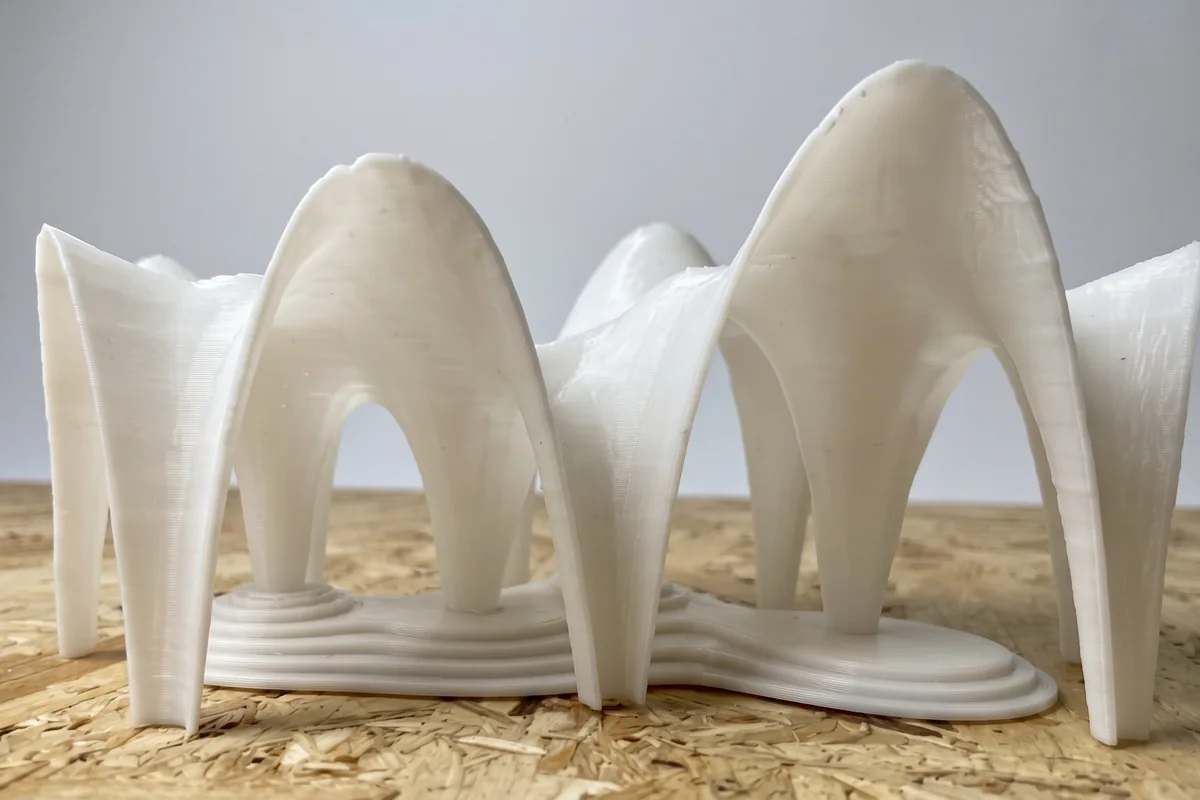
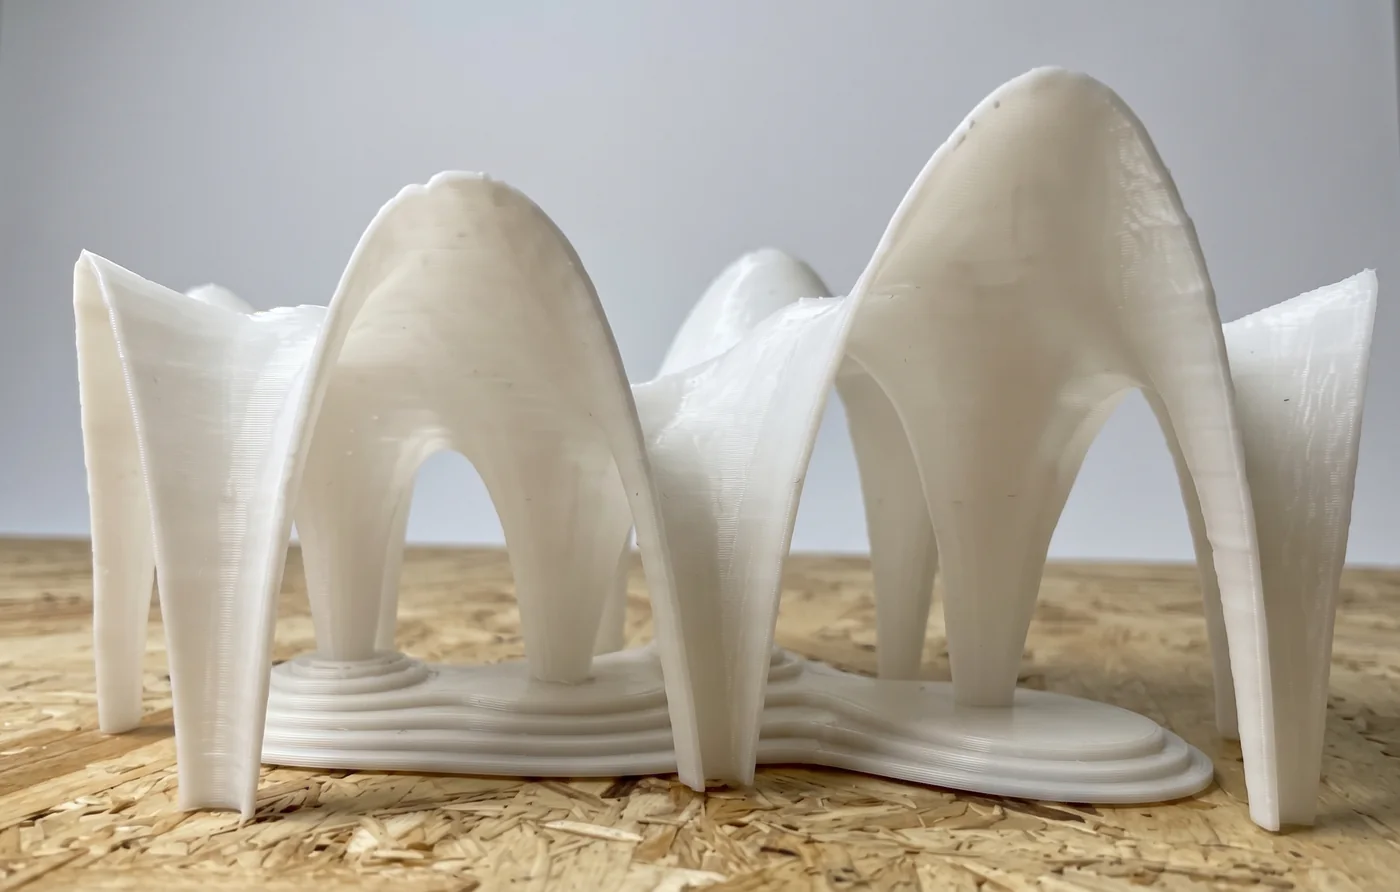
Update site 2026-10-17

diff --git a/index.html b/index.html
@@ -2,7 +2,7 @@
 <html lang="en">
 <head>
 <meta charset="utf-8">
-<meta http-equiv="Content-Security-Policy" content="default-src 'self'; script-src 'self' 'sha256-2aXUAyr4y5HwhHmZkiL9GxlWPjC31j/WITiZgkK8rwM=' 'sha256-Pou2OAmGK2C6S8TLm9mEenH+t3b9fo090o6+uJaSkNo=' 'sha256-GBSNzbRYvDDGp3pbfBfW1qwvGaLkI736pXIuO3c3vkY=' 'sha256-OnF9gMCPLGY/SouGbdujw9Ati+5nUKj6wx/vH6x0mPo='; style-src 'self' 'unsafe-inline'; font-src 'self'; img-src 'self' data: blob:; media-src 'self' blob:; connect-src 'self'; worker-src 'self' blob:; object-src 'none'; base-uri 'self'; form-action 'none'">
+<meta http-equiv="Content-Security-Policy" content="default-src 'self'; script-src 'self' 'sha256-2aXUAyr4y5HwhHmZkiL9GxlWPjC31j/WITiZgkK8rwM=' 'sha256-Pou2OAmGK2C6S8TLm9mEenH+t3b9fo090o6+uJaSkNo=' 'sha256-GBSNzbRYvDDGp3pbfBfW1qwvGaLkI736pXIuO3c3vkY=' 'sha256-mAJSQScPU12YZUNFzERjjrf9jzi+n/pDLj+Zl6iSFy4='; style-src 'self' 'unsafe-inline'; font-src 'self'; img-src 'self' data: blob:; media-src 'self' blob:; connect-src 'self'; worker-src 'self' blob:; object-src 'none'; base-uri 'self'; form-action 'none'">
 <meta name="referrer" content="strict-origin-when-cross-origin">
 <meta name="viewport" content="width=device-width, initial-scale=1, viewport-fit=cover">
 <title>Raffaele Errichiello</title>
@@ -1655,8 +1655,8 @@ html:not(.ed-on) [data-ed-off]{display:none!important}
         <figure class="cycle" data-cycle data-every="3200" aria-label="Four coloured sections of the two designs, changing every few seconds"><div class="tile r43"><img src="assets/img/x/th-se-1.webp" alt="Coloured section through the flat shells, the timber arches cut, the net funnel in the middle, the museum stair behind" loading="lazy" decoding="async" width="1600" height="1200"><img src="assets/img/x/th-se-2.webp" alt="" loading="lazy" decoding="async" width="1600" height="1200"><img src="assets/img/x/th-se-3.webp" alt="" loading="lazy" decoding="async" width="1600" height="1200"><img src="assets/img/x/th-se-4.webp" alt="" loading="lazy" decoding="async" width="1600" height="1200"></div></figure>
       </div>
       <p class="cap">Elevations, left, and sections, right, of the flat shells and the shells on the steps, between Bildmuseet and the School of Architecture. Archicad drawings of December 2021, coloured with AI.</p>
-      <div class="duo" style="grid-template-columns:1.5fr 1.333fr">
-        <figure class="media r32"><img src="assets/img/x/th-shells-g.webp" alt="3D printed model of the flat shells, white, on a wooden board against a plain grey ground (photograph relit with AI)" loading="lazy" decoding="async" width="1200" height="800"></figure>
+      <div class="duo" style="grid-template-columns:1.569fr 1.333fr">
+        <figure class="media" style="aspect-ratio:1400/892"><img src="assets/img/x/th-shells-g.webp" alt="3D printed model of the flat shells, white, on a wooden board against a plain grey ground (photograph relit with AI)" loading="lazy" decoding="async" width="1400" height="892"></figure>
         <figure class="media r43 zoomable" data-zoom="assets/img/x/th-flat-ill.webp" data-cap="The flat shells in section perspective, drawing of September 2021, coloured with AI."><img src="assets/img/x/th-flat-ill.webp" alt="Line and watercolour section perspective of the same flat shells in a park, people sitting and cycling under them and a skateboarder on the roof" loading="lazy" decoding="async" width="1600" height="1200"></figure>
       </div>
       <p class="cap">The printed model of the flat shells, January 2022, its photograph relit with AI, and the same shells in section perspective, a drawing of September 2021 coloured with AI.</p>
@@ -4865,7 +4865,7 @@ function t(t,e,i){return Math.max(t,Math.min(e,i))}var e=class{isRunning=!1;valu
   initPosters(); initVideos(); initScrub(); initLightbox(); initCopy(); initPeek(); initShelf();
 })();
 
-(function(){var B='eeeed64b891a';function check(){try{fetch('version.txt?t='+Date.now(),{cache:'no-store'}).then(function(r){return r.ok?r.text():null}).then(function(v){v=v&&v.trim();if(!v||v===B)return;var k='reloaded-for';try{if(sessionStorage.getItem(k)===v)return;sessionStorage.setItem(k,v)}catch(e){}location.reload()}).catch(function(){})}catch(e){}}check();addEventListener('pageshow',function(e){if(e.persisted)check()});document.addEventListener('visibilitychange',function(){if(!document.hidden)check()})})();
+(function(){var B='d55f793706d9';function check(){try{fetch('version.txt?t='+Date.now(),{cache:'no-store'}).then(function(r){return r.ok?r.text():null}).then(function(v){v=v&&v.trim();if(!v||v===B)return;var k='reloaded-for';try{if(sessionStorage.getItem(k)===v)return;sessionStorage.setItem(k,v)}catch(e){}location.reload()}).catch(function(){})}catch(e){}}check();addEventListener('pageshow',function(e){if(e.persisted)check()});document.addEventListener('visibilitychange',function(){if(!document.hidden)check()})})();
 </script>
 </body>
 </html>
